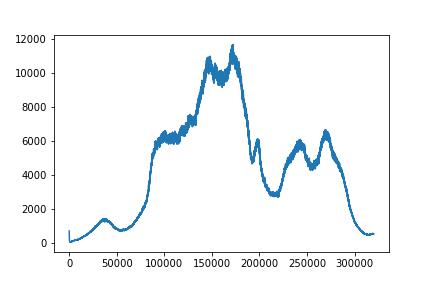
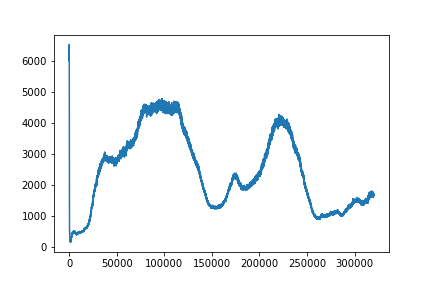
new configurations

diff --git a/DQN/agent.py b/DQN/agent.py
@@ -61,13 +61,13 @@ class DQNAgent(object):
         self._action_space = action_space
         self._action_n = action_space.n
         self._config = {
-            "eps": 0.1,            # Epsilon in epsilon greedy policies                        
+            "eps": 1,            # Epsilon in epsilon greedy policies                        
             "discount": 0.99,
-            "buffer_size": int(1e4),
+            "buffer_size": int(1e6),
             "batch_size": 128,
-            "learning_rate": 0.00002, 
-            "update_rule": 10,
-            "multistep": 3,
+            "learning_rate": 0.00025, 
+            "update_rule": 100,
+            "multistep": 5,
             "omega": 0.5,
             # add additional parameters here        
         }
@@ -96,6 +96,11 @@ class DQNAgent(object):
     def load_weights(self, filepath):
         self.Q.eval()
         self.Q.load_state_dict(torch.load(filepath))
+        
+    def reduce_exploration(self, x): 
+        if x < self._eps: 
+            self._eps -= x
+        
 
     def act(self, observation, eps=None):
         if eps is None:
@@ -106,6 +111,7 @@ class DQNAgent(object):
             action = self._action_space.sample()   
         self.last_action = action
         return self.convert(action)
+    
     
     def commit_transition(self, transition):
         #print('commit:',len(self.transition))

diff --git a/main.py b/main.py
@@ -18,7 +18,7 @@ env = h_env.HockeyEnv()
 attack = h_env.HockeyEnv(mode=h_env.HockeyEnv.TRAIN_SHOOTING)
 defense = h_env.HockeyEnv(mode=h_env.HockeyEnv.TRAIN_DEFENSE)
 
-name='attack'
+name='de'
 
 q_agent = agent.DQNAgent(env.observation_space, 
                          Discrete(8),
@@ -30,7 +30,7 @@ ddpg_player = DDPGAgent(env.observation_space,
 
 losses, rewards = training.train(attack, q_agent, player2=False, name=name, max_episodes=10000)
 
-# # # losses, rewards = ddpg_train.train(attack, ddpg_agent, player2=False, name='shootdefense')
+## losses, rewards = ddpg_train.train(attack, ddpg_agent, player2=False, name='shootdefense')
 
 plt.plot(training.running_mean(losses,64))
 plt.savefig(f'Plots/{name}_losses')
@@ -43,8 +43,8 @@ plt.show()
 plt.close()
 
 # player2 = h_env.BasicOpponent()
-# stats = gameplay(attack, q_agent, player2=False, N=10, show=True, analyze=True)
-# print(stats)
+stats = gameplay(attack, q_agent, player2=False, N=100, show=True, analyze=False)
+print(stats)
 
 defense.close()
 attack.close()

diff --git a/laserhockey/hockey_env.py b/laserhockey/hockey_env.py
@@ -633,7 +633,8 @@ class HockeyEnv(gym.Env, EzPickle):
       self.done = True
 
     info = self._get_info()
-    reward = self._compute_reward() + info["reward_closeness_to_puck"] + info["reward_touch_puck"] + info["reward_puck_direction"]
+    reward = self._compute_reward() 
+    #+ info["reward_closeness_to_puck"] + info["reward_touch_puck"] + info["reward_puck_direction"]
     
 
     self.closest_to_goal_dist = min(self.closest_to_goal_dist,

diff --git a/DQN/training.py b/DQN/training.py
@@ -13,6 +13,8 @@ def train(env, q_agent, player2=False, max_episodes=200, max_steps=300, show=Fal
     fps=50
     
     for i in range(max_episodes):
+        if i % (max_episodes/10) == 0 and i != 0: 
+            q_agent.reduce_exploration(0.1)
         # print("Starting a new episode")    
         total_reward = 0
         obs2 = ob = env.reset()
